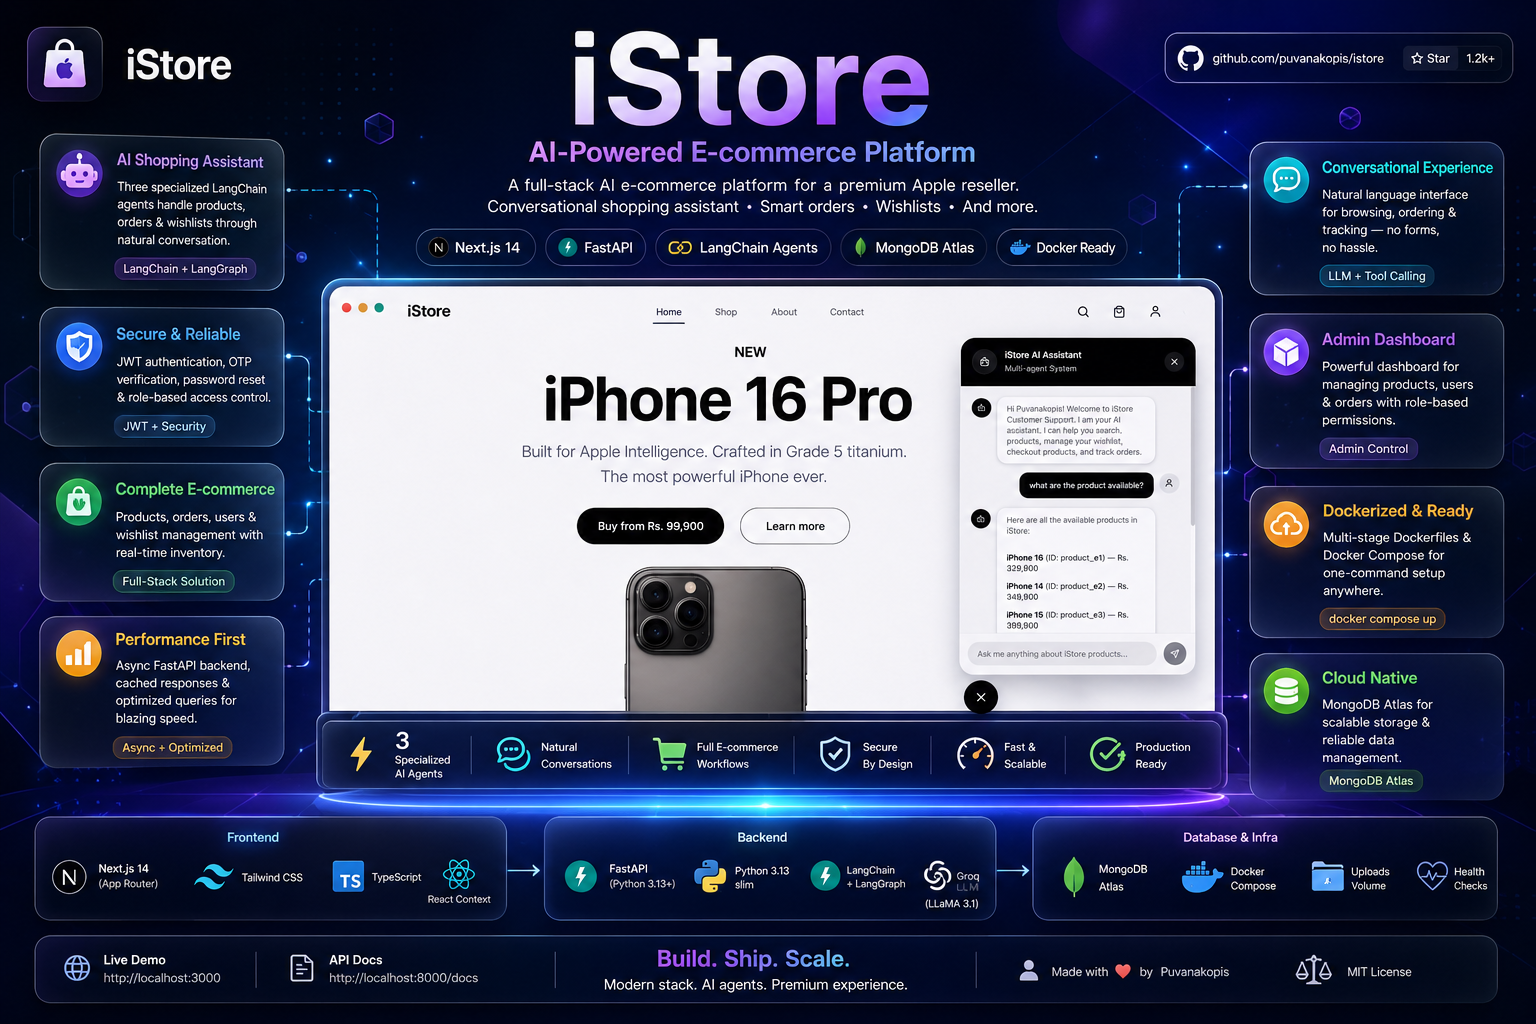
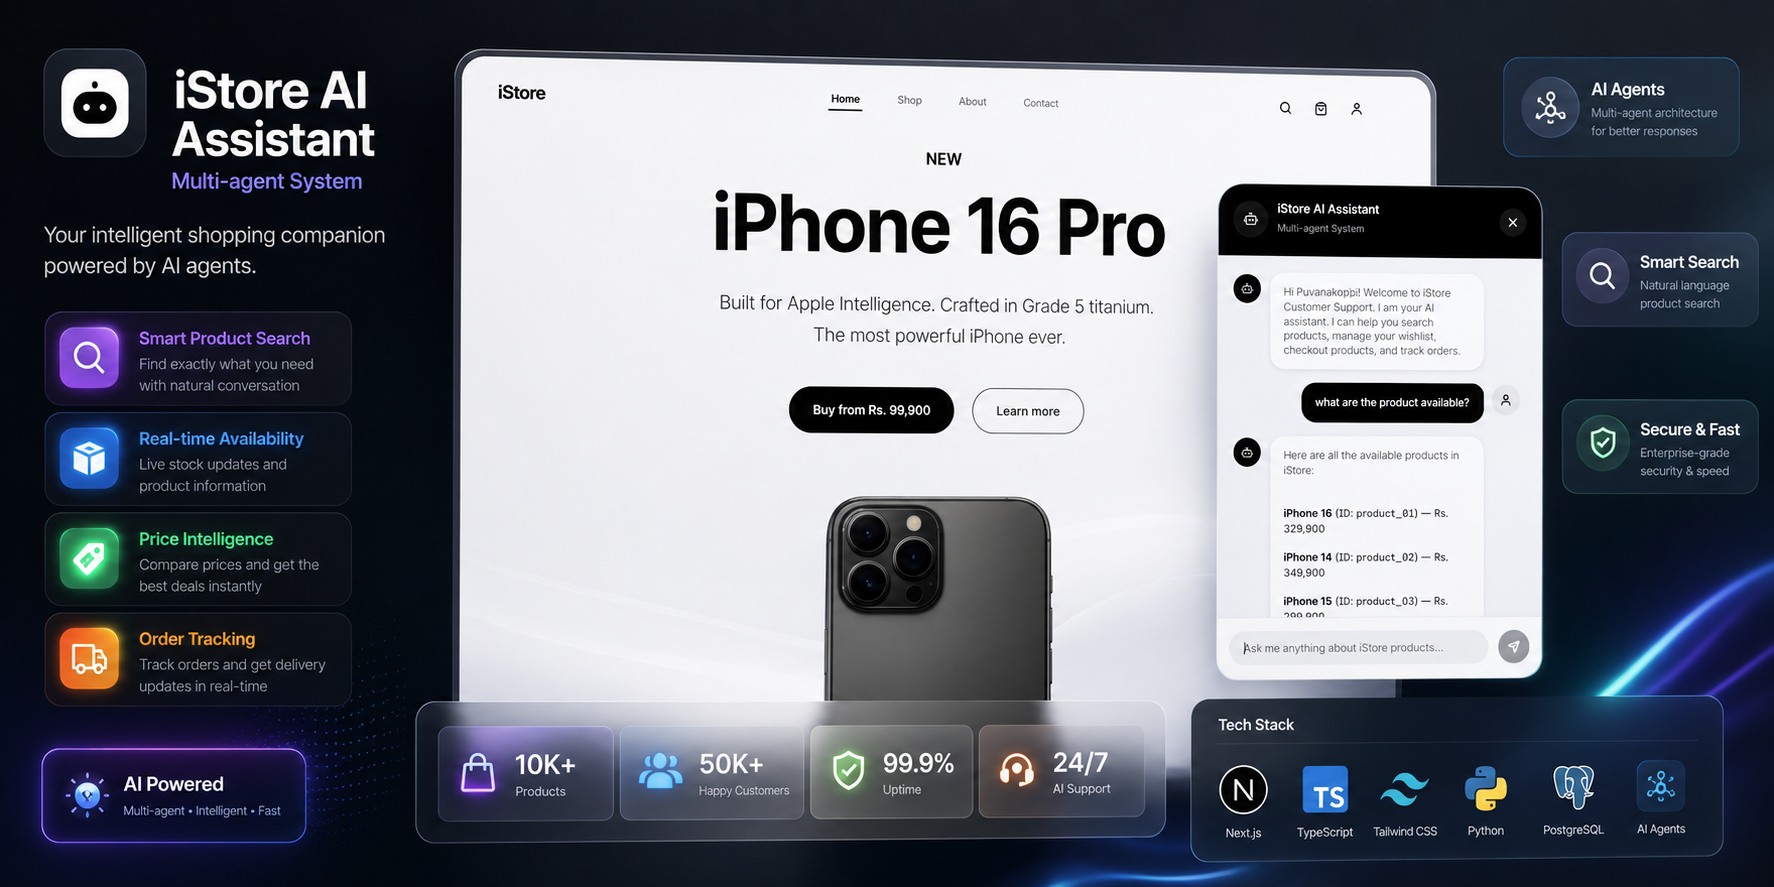
add project data and responsive

diff --git a/data/projects.ts b/data/projects.ts
@@ -12,7 +12,7 @@ export type Project = {
 export const projects: Project[] = [
   {
     slug: "istore",
-    img: "/istore.png",
+    img: "/iStore.png",
     title: "iStore – AI Agent & Full Stack",
     tags: ["Next.js", "FastAPI", "LangChain", "MongoDB", "Docker"],
     year: "2026",
@@ -76,9 +76,9 @@ export const projects: Project[] = [
     githubUrl: "https://github.com/puvanakopis/CampusEase",
   },
   {
-    slug: "smart-data-analysis-pipeline",
-    img: "/smart-data-analysis-pipeline.png",
-    title: "Smart Data Analysis Agent - AI Agent",
+    slug: "InsightFlow_AI",
+    img: "/InsightFlow_AI.png",
+    title: "InsightFlow AI - AI Agent",
     tags: [
       "Python",
       "Streamlit",
@@ -112,6 +112,7 @@ export const projects: Project[] = [
     year: "2024",
     overview:
       "A premium footwear e-commerce platform featuring secure authentication, shopping cart functionality, payment processing, and a comprehensive admin dashboard.",
+    githubUrl: "https://github.com/puvanakopis/FootStyle",
   },
   {
     slug: "social-media-health-analysis",
@@ -128,6 +129,7 @@ export const projects: Project[] = [
     year: "2024",
     overview:
       "A data science research project exploring the relationship between social media usage patterns and their impact on mental and physical health indicators.",
+    githubUrl: "https://github.com/puvanakopis/social-media-health-analysis",
   },
 ];
 

diff --git a/components/sections/Project.tsx b/components/sections/Project.tsx
@@ -16,7 +16,7 @@ function Card({ p, index }: { p: Project; index: number }) {
       style={{ opacity: 0 }}
       data-project-card
     >
-      <div className="aspect-[16/10] overflow-hidden relative">
+      <div className="aspect-[2/1] overflow-hidden relative">
         <Image
           src={p.img}
           alt={p.title}
@@ -30,15 +30,15 @@ function Card({ p, index }: { p: Project; index: number }) {
           {p.year}
         </span>
       </div>
-      <div className="flex flex-col justify-between p-5 min-h-[180px]">
+      <div className="flex flex-col justify-between p-5 min-h-[250px]">
         <div>
           <h3 className="text-display text-xl text-[var(--foreground)] md:text-2xl font-medium">
             {p.title}
           </h3>
-          <p className="mt-2 text-xs text-[var(--muted-foreground)] leading-relaxed line-clamp-2">
+          <p className="mt-2 text-sm text-[var(--muted-foreground)] leading-relaxed line-clamp-4">
             {p.overview}
           </p>
-          <div className="mt-3.5 flex flex-wrap gap-1.5">
+          <div className="mt-3.5 flex flex-wrap gap-1.5 line-clamp-1">
             {p.tags.slice(0, 4).map((t) => (
               <span
                 key={t}